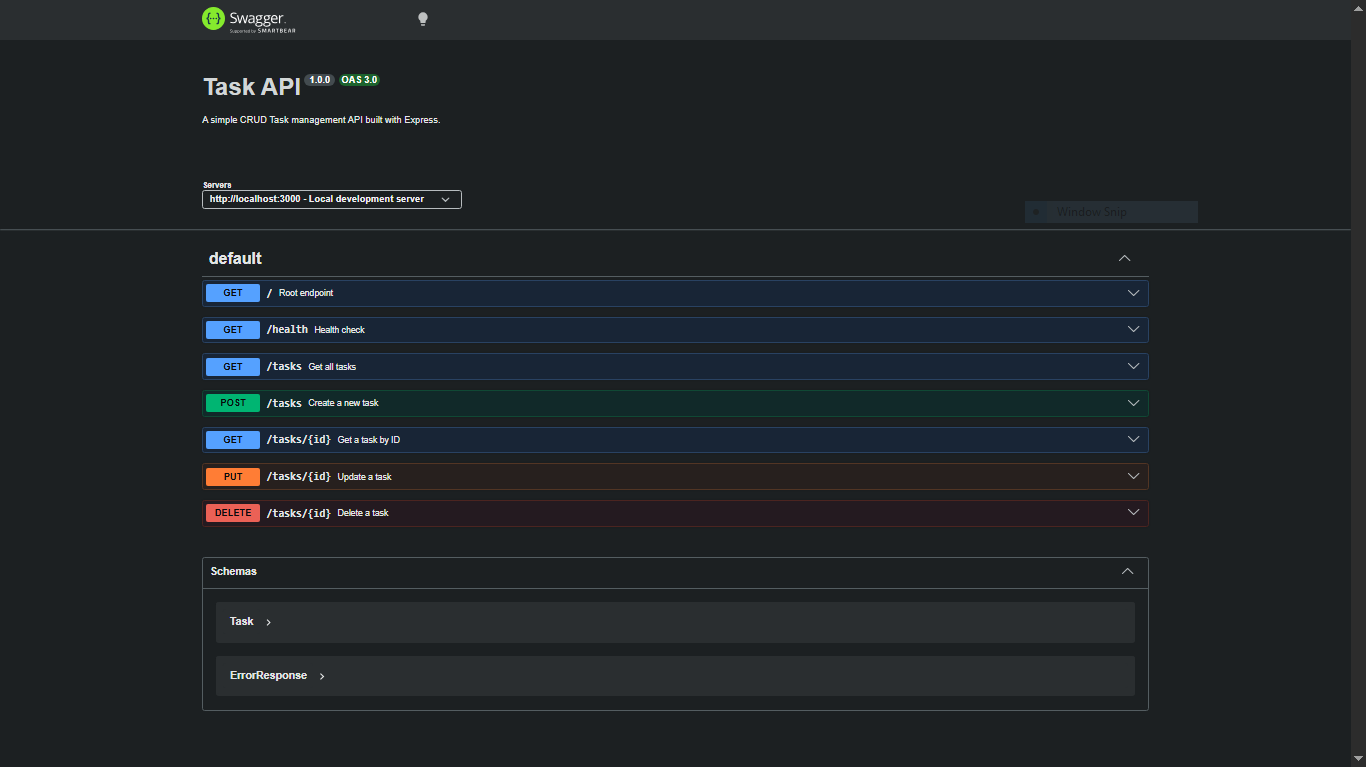
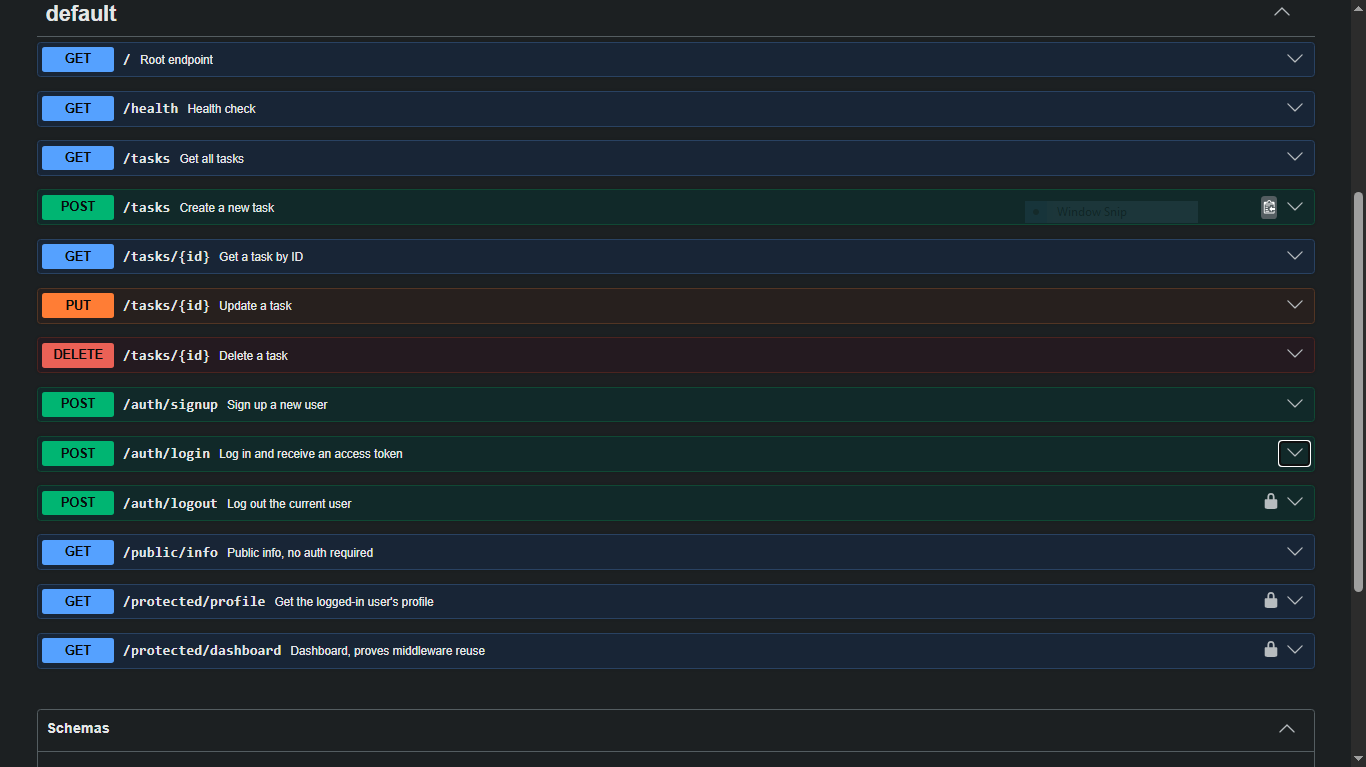
Stage 6: publish to GitHub and write README

diff --git a/readme.md b/readme.md
@@ -2,6 +2,8 @@
 
 A simple, lightweight RESTful API built with Node.js, Express, and SQLite using `better-sqlite3` to manage tasks. Tasks are persistently stored in a local SQLite database, and the API provides interactive documentation through Swagger UI.
 
+This project has been extended with **Supabase Auth** — the API now supports sign up, log in, and log out, and specific routes are protected behind JWT verification. See the [Authentication](#authentication) section below for full details.
+
 ---
 
 ## Features
@@ -12,6 +14,8 @@ A simple, lightweight RESTful API built with Node.js, Express, and SQLite using 
 * **Automatic ID Generation**: Task IDs are generated by SQLite.
 * **Interactive Documentation**: Built-in Swagger UI generated from an `openapi.json` schema.
 * **Health Check**: Provides an endpoint to verify that the server is running.
+* **Authentication (new)**: Sign up, log in, and log out via Supabase Auth.
+* **Protected Routes (new)**: JWT-verified, reusable auth middleware guards specific endpoints.
 
 ---
 
@@ -23,6 +27,8 @@ A simple, lightweight RESTful API built with Node.js, Express, and SQLite using 
 * **better-sqlite3**
 * **Swagger UI**
 * **OpenAPI**
+* **Supabase Auth** (`@supabase/supabase-js`) — *new*
+* **dotenv** — *new*
 
 ---
 
@@ -34,7 +40,25 @@ Ensure you have **Node.js** installed on your local machine.
 
 SQLite does not require a separate database server. The application uses `better-sqlite3` to create and interact with the local SQLite database file.
 
-### 2. Installation
+You will also need a free **Supabase** project ([supabase.com](https://supabase.com)) — no credit card required — for authentication.
+
+### 2. Environment Variables
+
+Create a `.env` file in the project root (this file is git-ignored and never committed):
+
+```
+SUPABASE_URL=your_project_url
+SUPABASE_KEY=your_anon_key
+PORT=3000
+```
+
+Get `SUPABASE_URL` and `SUPABASE_KEY` (the **anon** key — never the `service_role` key) from your Supabase Dashboard under **Project Settings → API**.
+
+> **Supabase setting:** under **Authentication → Sign In / Providers → Email**, turn **"Confirm email" off** so a freshly signed-up user can log in immediately without checking an inbox.
+
+A `.env.example` is committed with the key names and placeholder values — copy it to `.env` and fill in your own values.
+
+### 3. Installation
 
 Navigate to the root of the project directory and install all required dependencies from `package.json`:
 
@@ -42,7 +66,7 @@ Navigate to the root of the project directory and install all required dependenc
 npm install
 ```
 
-### 3. Run the Server
+### 4. Run the Server
 
 Launch the application using:
 
@@ -56,7 +80,7 @@ The terminal should display a message similar to:
 Server is running on port 3000
 ```
 
-The SQLite database will be created/used locally by the application.
+The SQLite database will be created/used locally by the application, and the server connects to Supabase using your `.env` values.
 
 ---
 
@@ -65,6 +89,8 @@ The SQLite database will be created/used locally by the application.
 Once your application is running, access the interactive API documentation in your browser:
 
 🔗 **Swagger UI Docs Dashboard**: http://localhost:3000/docs
+
+Click **Authorize**, paste an `access_token` obtained from `/auth/login`, and use **Try it out** on any locked route directly from the browser.
 
 ### API Dashboard Preview
 
@@ -91,6 +117,23 @@ Once your application is running, access the interactive API documentation in yo
 | **PUT**    | `/tasks/:id` | `{ "title": "string", "done": bool }` | Update a task               | `200 OK` (or `400`/`404`)   |
 | **DELETE** | `/tasks/:id` | *None*                                | Delete a task               | `204 No Content` (or `404`) |
 
+### Auth & Protected Resources *(new)*
+
+| Method   | Endpoint                | Auth Required             | Request Body                                  | Description                                              | Success Code      | Error Codes  |
+| :------- | :----------------------- | :------------------------- | :---------------------------------------------- | :--------------------------------------------------------- | :------------------ | :------------ |
+| **POST** | `/auth/signup`           | ❌ No                        | `{ "email": "string", "password": "string" }`   | Create a new user account via Supabase                     | `201 Created`        | `400`         |
+| **POST** | `/auth/login`             | ❌ No                        | `{ "email": "string", "password": "string" }`   | Authenticate and return a JWT access token                 | `200 OK`             | `400`, `401`  |
+| **POST** | `/auth/logout`            | ✅ Yes (`Bearer <token>`)   | *None*                                          | End the current user's session                             | `204 No Content`     | `401`         |
+| **GET**  | `/public/info`            | ❌ No                        | *None*                                          | Open, unauthenticated info endpoint                         | `200 OK`             | —             |
+| **GET**  | `/protected/profile`      | ✅ Yes (`Bearer <token>`)   | *None*                                          | Return the verified user's id, email, and creation date     | `200 OK`             | `401`         |
+| **GET**  | `/protected/dashboard`    | ✅ Yes (`Bearer <token>`)   | *None*                                          | Second protected route, proves auth middleware is reusable  | `200 OK`             | `401`         |
+
+Protected routes require the header:
+
+```
+Authorization: Bearer <your_access_token>
+```
+
 ---
 
 ## Sample Request Payloads
@@ -116,6 +159,51 @@ Once your application is running, access the interactive API documentation in yo
 }
 ```
 
+### Sign Up (`POST /auth/signup`)
+
+```bash
+curl -i -X POST http://localhost:3000/auth/signup \
+  -H "Content-Type: application/json" \
+  -d '{"email":"test@example.com","password":"password123"}'
+```
+
+### Log In (`POST /auth/login`)
+
+```bash
+curl -i -X POST http://localhost:3000/auth/login \
+  -H "Content-Type: application/json" \
+  -d '{"email":"test@example.com","password":"password123"}'
+```
+
+Response includes an `access_token` — copy this for the requests below.
+
+### Access a Protected Route (`GET /protected/profile`)
+
+```bash
+curl -i http://localhost:3000/protected/profile \
+  -H "Authorization: Bearer <PASTE_ACCESS_TOKEN>"
+```
+
+### Log Out (`POST /auth/logout`)
+
+```bash
+curl -i -X POST http://localhost:3000/auth/logout \
+  -H "Authorization: Bearer <PASTE_ACCESS_TOKEN>"
+```
+
+---
+
+## Authentication
+
+This API never hashes passwords or signs tokens itself — that responsibility belongs entirely to **Supabase**, the Identity Provider:
+
+1. **Sign up / Log in** — the client sends credentials to this server, which forwards them to Supabase.
+2. **The token** — Supabase verifies the credentials and returns a signed JWT (`access_token`).
+3. **The request** — the client attaches that JWT to future requests via `Authorization: Bearer <token>`.
+4. **Verification** — a reusable middleware function asks Supabase, on every protected request, "is this token real?" (`supabase.auth.getUser(token)`). Only a valid, unexpired, unmodified token is allowed through.
+
+All protected routes (`/protected/profile`, `/protected/dashboard`, `/auth/logout`) share this one middleware — the verification logic exists in exactly one place, so any change to how tokens are checked only has to happen once.
+
 ---
 
 ## Data Persistence
@@ -135,22 +223,26 @@ Client
 Express REST API
    │
    ▼
-Task Routes / Controllers
+Auth Middleware (verifies JWT via Supabase, applies to protected routes)
    │
    ▼
-better-sqlite3
+Task Routes / Controllers ──▶ better-sqlite3 ──▶ SQLite Database
    │
    ▼
-SQLite Database
+Supabase Auth (Identity Provider — accounts, tokens)
 ```
 
-Swagger UI provides an interactive interface for testing the available API endpoints.
+Swagger UI provides an interactive interface for testing all available endpoints, including authorized calls to protected routes.
 
 ---
 
 ## Notes
 
 * The SQLite database is stored locally as a database file used by the application.
-* No separate database server is required.
+* No separate database server is required for tasks.
 * Make sure the application has permission to create and write to the database file.
 * The database file should generally be excluded from version control if you do not want to commit local application data.
+* `.env` is git-ignored and never committed — only `.env.example` (with placeholder values) is tracked.
+* No Supabase keys appear anywhere in this repo's git history.
+* This server uses the Supabase **anon** key, which is safe to expose client-side; the `service_role` key is never used here.
+* Access tokens are short-lived JWTs (Supabase default: 1 hour) and, being stateless, remain valid until they expire — logging out ends the Supabase session but does not retroactively invalidate an already-issued token still within its expiry window.
